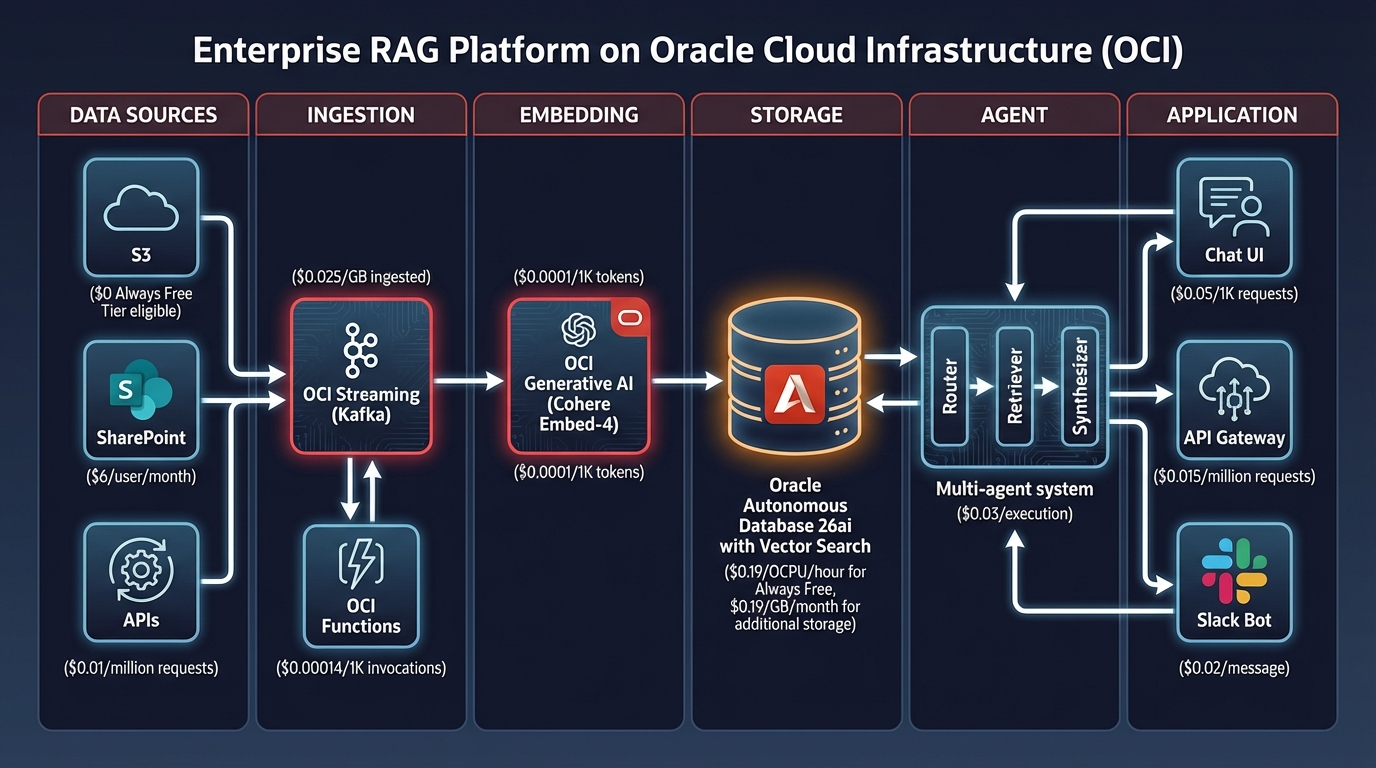
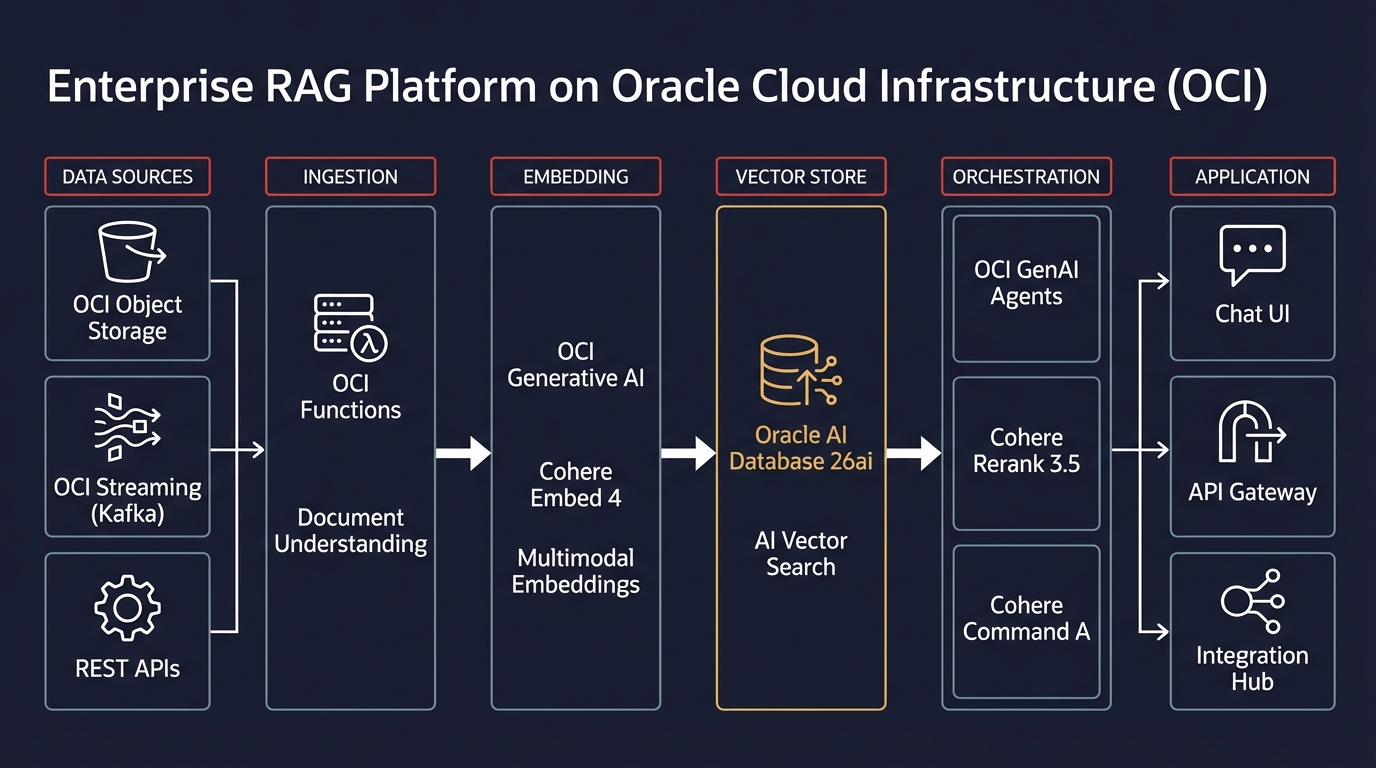
Update RAG architecture visual and fix Oracle AI Database 26ai branding
- Replace RAG architecture image with clean professional diagram
- Correct OCI service names: Object Storage, OCI Functions, GenAI Agents
- Use official branding: Oracle AI Database 26ai (not Autonomous Database)
- Remove hardcoded pricing from visual to prevent stale data
- Add current model stack: Cohere Embed 4, Rerank 3.5, Command A

diff --git a/README.md b/README.md
@@ -70,7 +70,7 @@ See [skills/README.md](skills/README.md) for detailed pricing and usage guide.
 
 Generated with:
 ```bash
-/oracle-infogenius "Enterprise RAG Platform with OCI GenAI, Autonomous Database 26ai Vector Search, and Multi-Agent orchestration"
+/oracle-infogenius "Enterprise RAG Platform with OCI GenAI, Oracle AI Database 26ai Vector Search, Cohere Embed 4, and OCI GenAI Agents orchestration"
 ```
 
 ### Multi-Agent Orchestration Patterns
@@ -181,7 +181,7 @@ Every skill includes:
 | Component | Version |
 |-----------|---------|
 | OCI SDK | 2.130.0 |
-| Oracle Database | 26ai |
+| Oracle AI Database | 26ai |
 | Cohere Command | A |
 | Cohere Embed | 4 |
 | Meta Llama | 4-maverick, 3.3-70b |
